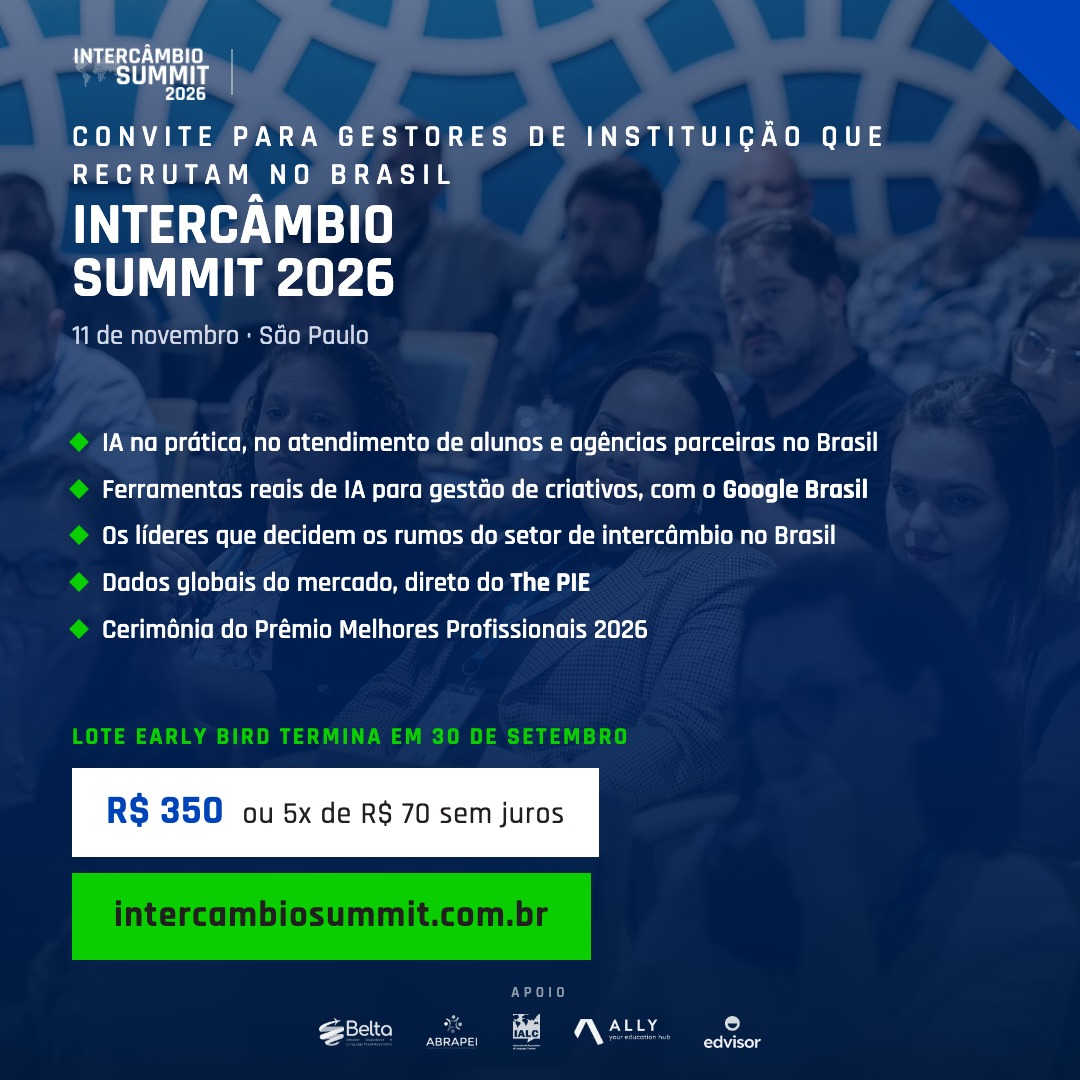
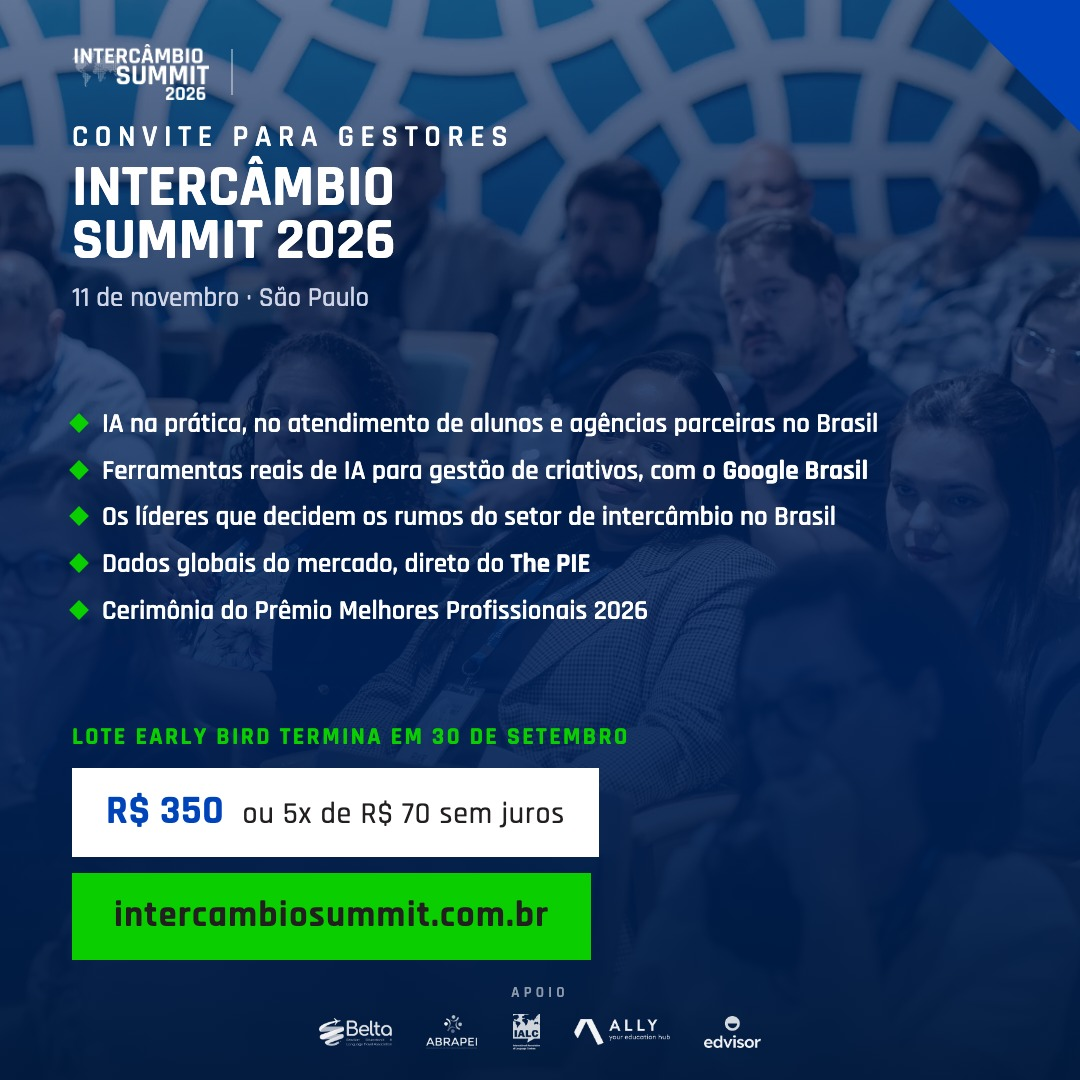
Simplifica eyebrow da arte WhatsApp de instituições para "Convite para gestores"

diff --git a/criativos/templates/convite-instituicoes-reversa-whatsapp.html b/criativos/templates/convite-instituicoes-reversa-whatsapp.html
@@ -64,7 +64,7 @@
       <span class="divisor"></span>
     </div>
 
-    <p class="eyebrow-conv eyebrow">Convite para gestores de instituição que recrutam no Brasil</p>
+    <p class="eyebrow-conv eyebrow">Convite para gestores</p>
     <h1 class="titulo-conv titulo-hero">INTERCÂMBIO<br>SUMMIT 2026</h1>
     <p class="quando-conv">11 de novembro · São Paulo</p>
 
